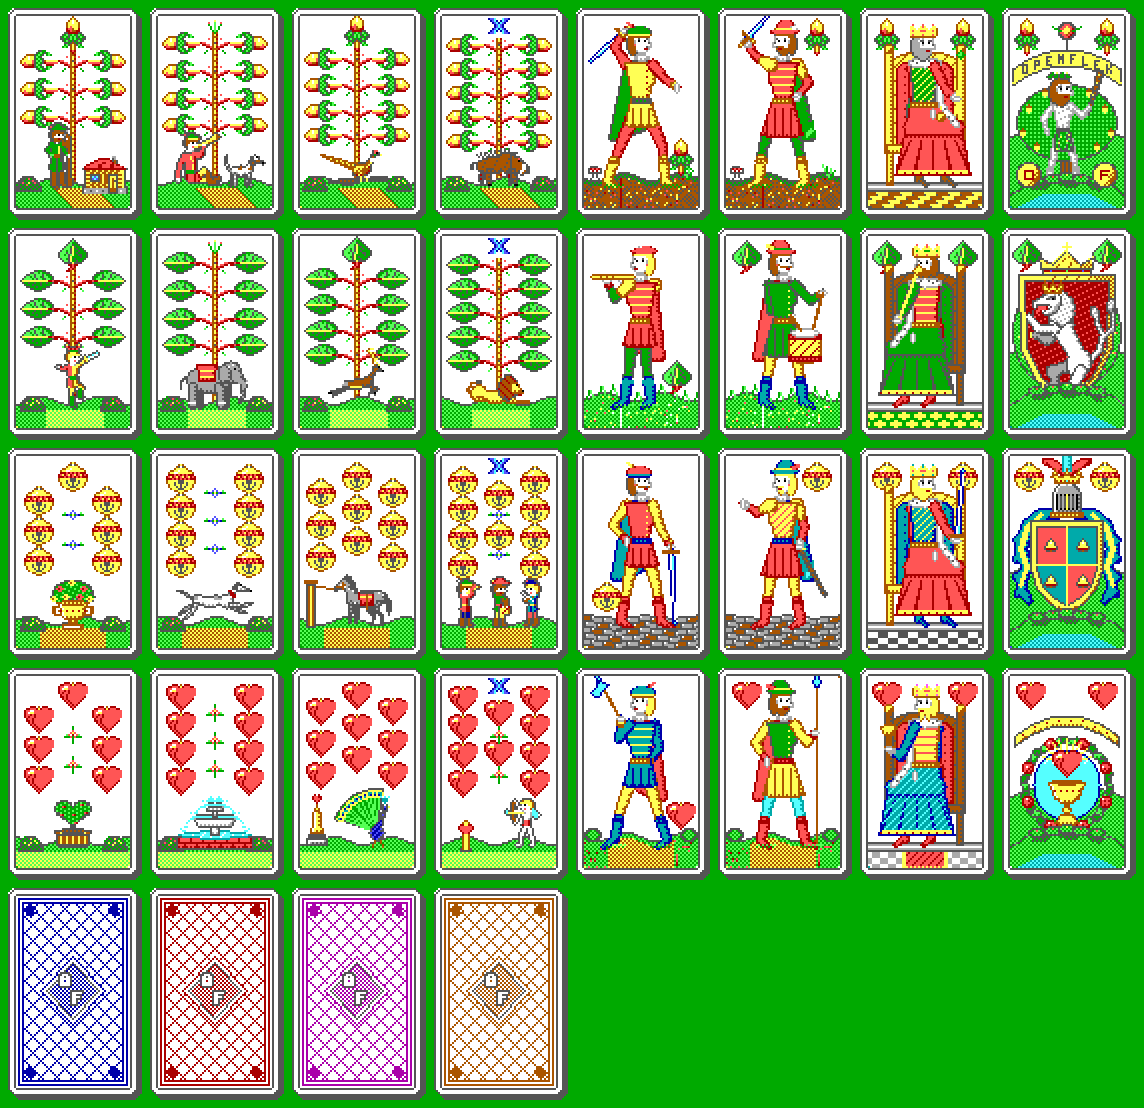
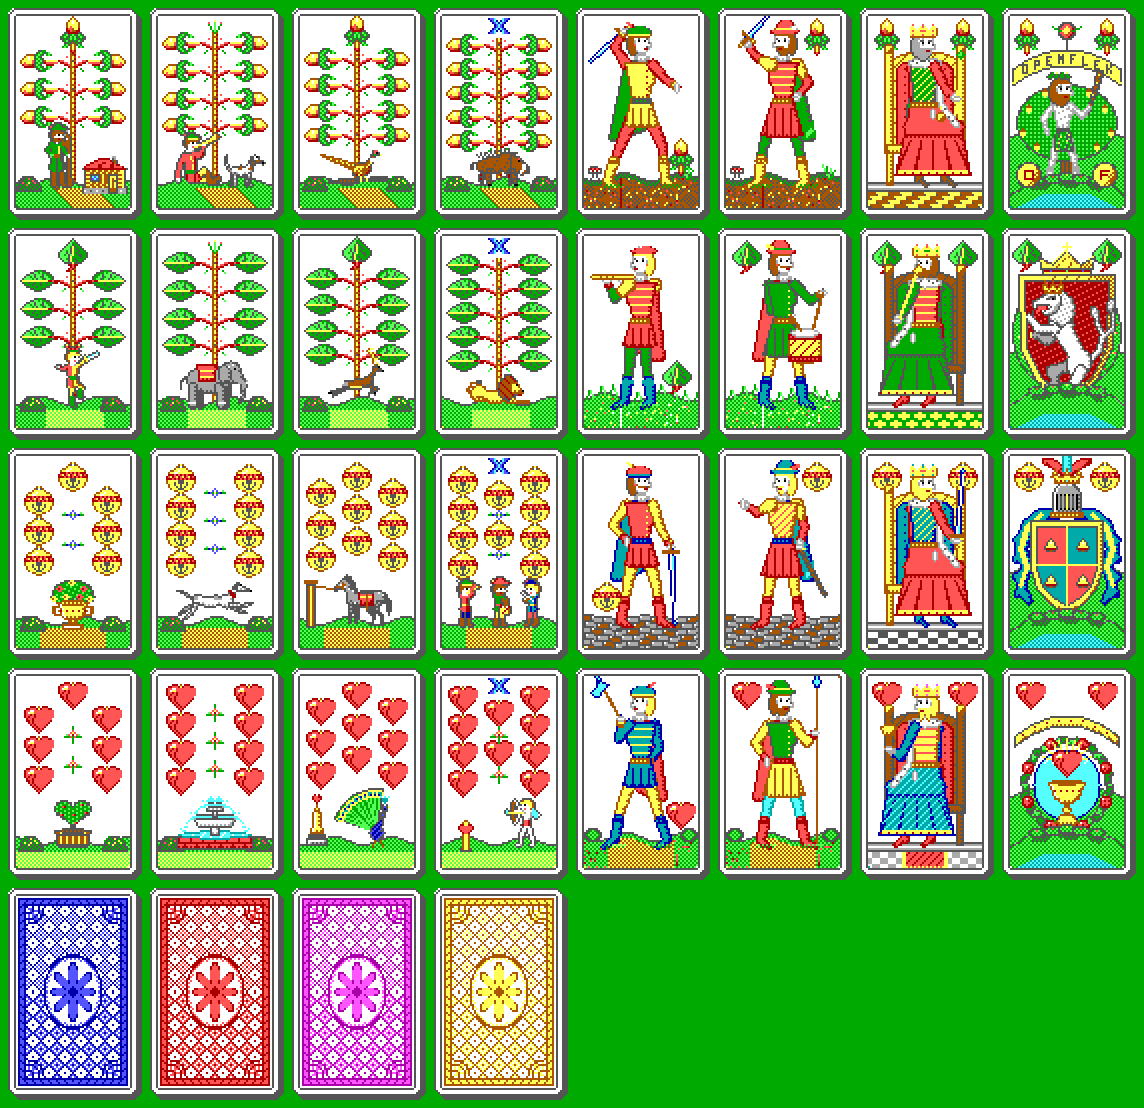
redesign the generated card back without the monogram

Changed region(s): [[0.0, 0.7978, 0.4895, 0.9819]]

diff --git a/scripts/deck_gen/palette.py b/scripts/deck_gen/palette.py
@@ -296,54 +296,84 @@ class FaceCanvas:
         self.blit_sprite(rows, cx - w // 2, cy - h // 2, flip_x=flip_x, flip_y=flip_y)
 
 
+# Lighter partner of each back colour the game offers (1..7), for petals and fills.
+BACK_LIGHT = {
+    BLUE: LIGHT_BLUE,
+    GREEN: LIGHT_GREEN,
+    CYAN: LIGHT_CYAN,
+    RED: LIGHT_RED,
+    MAGENTA: LIGHT_MAGENTA,
+    BROWN: YELLOW,
+    LIGHT_GRAY: LIGHT_GRAY,
+}
+
+
+def back_colour(line_col, x, y):
+    """The card-back pattern at face pixel (x, y) for one line colour, or None outside the border.
+
+    The pattern is built from distances to the centre, so it is mirror
+    symmetric both ways and the back looks the same either way up: a
+    double border with fans in the corners, a diamond lattice with a small
+    flower in every cell, and a medallion holding an eight-petalled rosette.
+    """
+    dark = DARK_GRAY if line_col == LIGHT_GRAY else line_col
+    light = BACK_LIGHT.get(line_col, WHITE)
+    # Quadrant coordinates: rows 49 and 50 are both the middle row.
+    qx = abs(x - 30)
+    qy = (abs(2 * y - 99) - 1) // 2
+    if not (2 <= x <= 58 and 2 <= y <= 97):
+        return None
+    # Border: a dark rule, a light band, another dark rule.
+    edge = min(x - 2, 58 - x, y - 2, 97 - y)
+    if edge == 1 or edge == 4:
+        return dark
+    if edge in (2, 3):
+        return light if (qx + qy) % 4 else dark
+    if edge == 0:
+        return WHITE
+    # Fans in the four corners of the field.
+    fx, fy = 23 - qx, 42 - qy
+    fr = math.hypot(fx, fy)
+    if fx >= 0 and fy >= 0 and fr <= 9:
+        if fr > 8 or int(fr) % 3 == 0:
+            return dark
+        return light if int(math.degrees(math.atan2(fy, fx)) / 15) % 2 else WHITE
+    # Central medallion with a rosette.
+    mr = math.hypot(qx / 15.0, (qy + 0.5) / 19.0)
+    if mr <= 1.0:
+        if mr > 0.92:
+            return dark
+        if mr > 0.84:
+            return light if (qx + qy) % 2 else WHITE
+        theta = math.atan2(qy + 0.5, qx)
+        petal = 0.25 + 0.55 * abs(math.cos(4 * theta))
+        if mr < 0.14:
+            return dark
+        if mr < petal:
+            return dark if mr > petal - 0.08 else light
+        return WHITE
+    # Diamond lattice with a flower in each cell.
+    a, b = (qx + qy) % 8, (qx - qy) % 8
+    if a == 0 or b == 0:
+        return dark
+    if a == 4 and b == 4:
+        return dark
+    if (a == 4 and b in (3, 5)) or (b == 4 and a in (3, 5)):
+        return light
+    # Every other cell is tinted, so the lattice reads as a chequer of diamonds.
+    if ((qx + qy) // 8 + (qx - qy) // 8) % 2 and (x + y) % 2:
+        return light
+    return WHITE
+
+
 def draw_back_face(line_col):
-    """Draws an ornate diamond-lattice and rosette card-back face in line_col."""
+    """A card back in `line_col`: lattice, corner fans and a central rosette, without lettering."""
     f = FaceCanvas()
-    # Outer ornamental double border
-    f.rect(3, 3, FACE_W - 4, FACE_H - 4, line_col)
-    f.rect(5, 5, FACE_W - 6, FACE_H - 6, line_col)
-    # Diamond lattice across the interior (x=6..54, y=6..93)
-    for k in range(-90, 150, 8):
-        f.line(6, 6 + k, 54, 6 + k + 48, line_col)
-        f.line(6, 6 + k + 48, 54, 6 + k, line_col)
-    # Clip lattice outside (6..54, 6..93) and restore border
     for y in range(FACE_H):
         for x in range(FACE_W):
-            if not (6 <= x <= 54 and 6 <= y <= 93):
-                if f.in_interior(x, y):
-                    f.px[y][x] = WHITE
-    f.rect(1, 1, FACE_W - 2, FACE_H - 2, DARK_GRAY)
-    f.rect(3, 3, FACE_W - 4, FACE_H - 4, line_col)
-    f.rect(5, 5, FACE_W - 6, FACE_H - 6, line_col)
-    # Corner diamond studs
-    for cx, cy in [(9, 9), (51, 9), (9, 90), (51, 90)]:
-        f.fill_poly([(cx, cy - 3), (cx + 3, cy), (cx, cy + 3), (cx - 3, cy)], line_col, WHITE, outline=line_col)
-    # Central medallion framing 'O' and 'F'
-    f.fill_poly([(30, 32), (46, 49), (30, 66), (14, 49)], WHITE, WHITE, outline=line_col)
-    f.fill_poly([(30, 35), (43, 49), (30, 63), (17, 49)], line_col, WHITE, outline=DARK_GRAY, mode='checker')
-    # Shadowed 'O' and 'F' monogram
-    o_glyph = [
-        '.88888.',
-        '88fff88',
-        '8ff8ff8',
-        '8ff.ff8',
-        '8ff.ff8',
-        '8ff.ff8',
-        '8fffff8',
-        '.88888.',
-    ]
-    f_glyph = [
-        '8888888',
-        '8fffff8',
-        '8ff888.',
-        '8ffff8.',
-        '8ff888.',
-        '8ff8...',
-        '8ff8...',
-        '8888...',
-    ]
-    f.blit_sprite(o_glyph, 23, 40)
-    f.blit_sprite(f_glyph, 29, 49)
+            col = back_colour(line_col, x, y)
+            if col is not None:
+                f.put(x, y, col)
     return f
 
 
